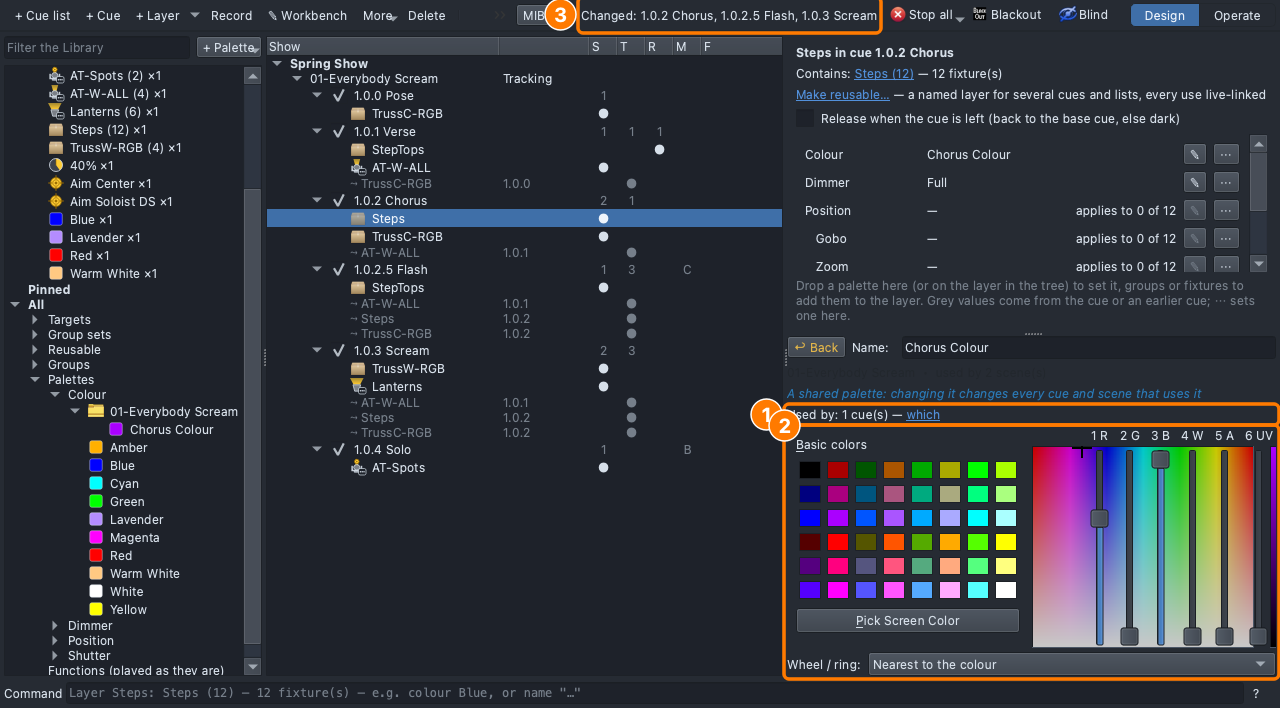
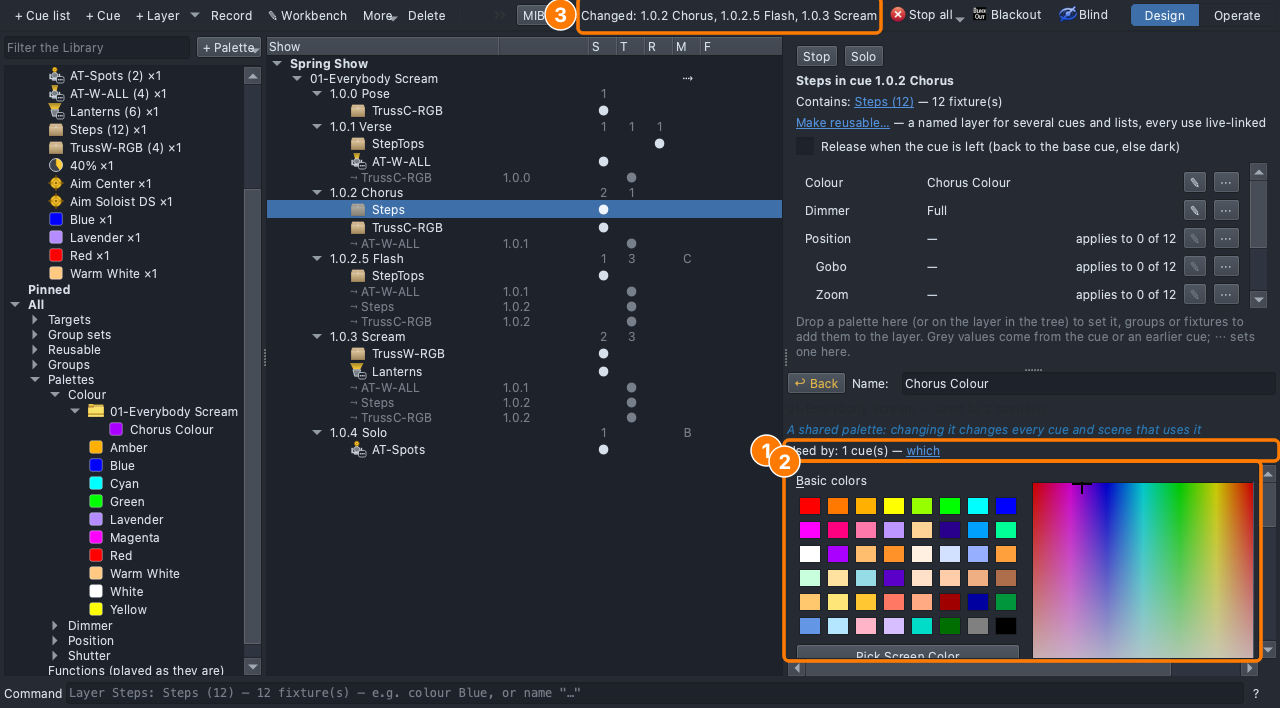
course: stage-colour picker, line crossing picture, Show Review warning marks, lab real-time note
Lesson 2.2 teaches the named stage colours, 2.5 how to read the crossing
plan (new line-cross picture), 3.9 and the 2.7 check answer a warning where
it shows, the Level 1 teacher guide notes Settings > Performance for lab
machines. The 2.5 picture test closes a leftover Look Editor first.

diff --git a/ui/test/courseshow/courseshow_test.cpp b/ui/test/courseshow/courseshow_test.cpp
@@ -4239,6 +4239,10 @@ static bool lessonTwoFiveByMouse(Doc *doc, ShowTreeView *view, const QString &sh
     settle(400);
     const QString fanPans = pans();
     qInfo().noquote() << "[2.5] fanned:" << fanPans;
+    // A Look Editor left open by the drop would hide the layer's own page.
+    if (QToolButton *back = view->findChild<QToolButton *>(QStringLiteral("lookBack")))
+        if (back->isVisible())
+            back->click();
     LESSON_STEP(clickCueRow(view, "Truss-Spots"), "click the layer");
     qInfo().noquote() << "[2.5] rows: Position" << rowText(view, KeyPosition) << "| Spread" << rowText(view, KeySpread)
                       << "| Grouping" << rowText(view, KeyGrouping) << "| Cross" << rowText(view, KeyCross)
@@ -4280,6 +4284,23 @@ static bool lessonTwoFiveByMouse(Doc *doc, ShowTreeView *view, const QString &sh
     settle(200);
     qInfo().noquote() << "[2.5] after -5: kind" << int(view->currentKind()) << "| Spread" << rowText(view, KeySpread)
                       << "| hint" << hintOf(view)->text();
+    if (!shots.isEmpty())
+    {
+        // The plan at Spread -5: each beam's line to its point, crossing.
+        QWidget *plan = view->findChild<QWidget *>(QStringLiteral("stLinePlan"));
+        QLabel *spread = stFind<QLabel>(view, QStringLiteral("stRow:%1").arg(KeySpread));
+        for (QWidget *w = spread; w != nullptr; w = w->parentWidget())
+            if (QScrollArea *area = qobject_cast<QScrollArea *>(w))
+            {
+                area->ensureWidgetVisible(plan != nullptr ? plan : spread, 0, 10);
+                break;
+            }
+        settle(100);
+        QList<HelpShots::Callout> marks;
+        if (plan != nullptr && plan->isVisible())
+            marks << mark(plan, 1, HelpShots::Above);
+        LESSON_STEP(ui(QStringLiteral("line-cross"), marks), "cross shot");
+    }
     LESSON_STEP(view->selectNode(button), "select the button");
     settle(50);
     {

diff --git a/docs/course/COURSE_PLAN.md b/docs/course/COURSE_PLAN.md
@@ -125,7 +125,7 @@ on lines, and busking hits for the unexpected.*
 | # | Lesson | Design idea | In the tool |
 |---|---|---|---|
 | 2.1 | **Tracking and Block** *(written)* | What stays on unless you change it; what should carry on and what shouldn't (one look per idea, 0.5; a sting is gone on the next beat, 0.6). A "hard start". | Read the chorus: grey ⤳ rows, the tree's **S / T / R / M** counts, **Tracked in**, *Next cue receives*. Director's notes: **Release** the verse's StepTops (dark in the chorus); a point cue 1.0.2.5 *Flash* (StepTops White, Full), **Cue-only**, so the Scream starts without it. The Solo (1.3) is the **Block** cue. Extension: the Pose as the **base cue** (StepTops Blue, 10%). |
-| 2.2 | **Palettes: change once, change everywhere** *(written)* | A designer's colours for a song (0.4, 0.5). The director says "less pink" an hour before the show. | **Used By** on Magenta; **Duplicate** it, name the copy for its job (*Chorus Colour*) in the Look Editor, **Move to Folder → New Folder…** *01-Everybody Scream*; drop it on the chorus's Steps and on the grey TrussC-RGB row; the note: **✎** → Basic colors violet, *Changed: 1.0.2, 1.0.2.5, 1.0.3*. Extension: **Group by Type** off. |
+| 2.2 | **Palettes: change once, change everywhere** *(written)* | A designer's colours for a song (0.4, 0.5). The director says "less pink" an hour before the show. | **Used By** on Magenta; **Duplicate** it, name the copy for its job (*Chorus Colour*) in the Look Editor, **Move to Folder → New Folder…** *01-Everybody Scream*; drop it on the chorus's Steps and on the grey TrussC-RGB row; the note: **✎** → Basic colors' violet (now stage colours) (hover for names), *Changed: 1.0.2, 1.0.2.5, 1.0.3*. Extension: **Group by Type** off. |
 | 2.3 | **Parts of a group** *(written)* | Highlight one row of singers; symmetry and breaking it (0.3, 0.4, 0.5): the bridge as a call and response. | 1.0.5 *Bridge* (Block): **Make Set…** *Truss Sides* (Trusses SR + SL), one layer Blue, Full; **Add Child Layer → Trusses SR** in Amber (a set's layer can't be split: Split is greyed); Steps Blue, 25% with a ⇧-dropped child **US** in White, Full. Extension: CS + DS dropped together, **Split Layer**, **More ▾ → Merge**. |
 | 2.4 | **Effects: sparkle and wave** *(written; planned as "sparkle, chase, matrix")* | Energy and rhythm (0.2, 0.4, 0.6). Eye candy vs. light on people. | 1.0.6 *Dance Break* (Block): Steps, StepTops, TrussW-RGB still; **+ Palette → Effect** in the song folder, the effect browser (*Sparkle · Dimmer*) → *Step Sparkle* on the Steps, **⋯ → Its own colour → White**; *Rainbow* → *Truss Wave* on TrussW-RGB (a wave of its blue). Extension: **Speed: Main Speed** (footer); a Color Chase on the cue, across the whole stage (§8, 17). |
 | 2.5 | **Moving lights and lines** *(written)* | Beams as scenery; fans and crosses on the button of a song (0.2, 0.3, 0.6). | 1.0.7 *Fan* (Block): Truss-Spots White, Full, **Riser Line** dropped on the row (the order strip, the plan view, Spread +5); 1.0.8 *Button* (tracks): the grey row's **Spread ⋯ → −5**, Red (the colour wheel and ring take their nearest slots), fade in 1 s. Extension: Spread 0, Grouping Pairs, the USTs on the line too (§8, 20). |

diff --git a/docs/course/level-2/lesson-02/teacher-guide.md b/docs/course/level-2/lesson-02/teacher-guide.md
@@ -100,7 +100,7 @@ On the projector:
 | Magenta changed in the Library | They opened Magenta, not the copy | "Undo. Which palette is on the chorus now? Open that one." |
 | Only the steps changed | Chorus Colour was dropped on the Steps only | "Where else is the chorus colour? The cyc: drop it on the grey TrussC-RGB row." |
 | The copy is still *Magenta (copy)* | Return not pressed in Name | "Type the name and press Return." |
-| They can't find Basic colors | The Look Editor is small | "Drag the line above it up to give it room." |
+| They can't find Basic colors (the swatch grid) | The Look Editor is small | "Drag the line above it up to give it room." |
 
 ## 4. Check for understanding (while circulating)
 
@@ -152,7 +152,7 @@ Every step of the handout is run by the course test (`ui/test/courseshow`,
 offscreen: the Library's right-click menus (Used by and its click,
 Duplicate, Move to Folder → New Folder…, Group by Type), the Look
 Editor's Name box and its Used by line, the drops and the top bar's text,
-the click on the Basic colors swatch, and what the rig sends (the steps
+the click on the violet swatch, and what the rig sends (the steps
 and the cyc magenta, then both violet, and the scream's cyc violet too).
 The at-home steps (Verse Colour into the existing folder) are checked the
 same way. The finish file is what the steps make, and the pictures are

diff --git a/docs/course/level-2/lesson-05/student.md b/docs/course/level-2/lesson-05/student.md
@@ -56,8 +56,14 @@ A snap or a quick sweep for the button? Why?
 
 7. Click **1.0.7 Fan**, **+ Cue**, type `Button`, **Return**.
 8. Click the grey **Truss-Spots** row; **Spread ⋯ → −5**: the beams cross.
-   In the plan view each beam runs from its light to its point, so you see
-   them cross. With Grouping set, each group has a colour of its own.
+   In the plan view (from above, downstage at the bottom) each beam is a
+   line from where its light hangs to its point on the line, so a cross
+   shows as lines that cross. Read the caption under it. With Grouping set,
+   lights that move together share a colour, and it counts the crossings
+   (*Groups swap sides: 24 beam crossings*). **Cross** does something only
+   with Spread below 0; at +5 or 0 the plan says so.
+
+   ![The plan at Spread −5: the beams cross](../../images/lesson-2-5/line-cross.png)
 9. Click **1.0.8 Button**; drag **Red** onto the **Truss-Spots** row.
 10. Type `1` in **Fade in**, **Return**.
 

diff --git a/docs/course/level-2/lesson-05/handout.md b/docs/course/level-2/lesson-05/handout.md
@@ -98,7 +98,13 @@ Switch roles after each part.
 8. Click the grey **Truss-Spots** row. On its **Spread** row, click **⋯ →
    −5**.
    - *You should see:* **Spread: −5**, the layer is the Button's own now,
-     and the top bar reads **Changed: 1.0.8 Button**. The beams cross.
+     and the top bar reads **Changed: 1.0.8 Button**. The beams cross. In
+     the plan view each beam is a line from its light to its point on the
+     line, so the cross is lines crossing; with Grouping set, lights that
+     move together share a colour and a caption counts the crossings.
+     **Cross** acts only below Spread 0, and the plan says when it doesn't.
+
+![The plan at Spread −5](../../images/lesson-2-5/line-cross.png)
 9. Click **1.0.8 Button** and drag **Red** onto the **Truss-Spots** row.
    - *You should see:* red beams. The spots have no colour mixing: their
      colour wheel and their colour ring each turn to the slot nearest

diff --git a/docs/course/level-2/lesson-02/student.md b/docs/course/level-2/lesson-02/student.md
@@ -62,8 +62,10 @@ Which cues change when Chorus Colour changes?
    ![Chorus Colour on the steps and the cyc](../../images/lesson-2-2/chorus-colour.png)
 
 9. Click the **Steps** row, then **✎** on its **Colour** row.
-10. Under **Basic colors**, click the violet (third row, second column).
-    The top bar: **Changed: 1.0.2 Chorus, 1.0.2.5 Flash, 1.0.3 Scream**.
+10. Under **Basic colors**, click the violet (third row, second column). The
+    swatches are the stage's colours, not a generic palette: hover a swatch for
+    its name (Flesh, Congo Blue, Bastard Amber, Blacklight for UV), and the
+    line under the picker names the colour you are on. The top bar: **Changed: 1.0.2 Chorus, 1.0.2.5 Flash, 1.0.3 Scream**.
 
     ![One change in the Look Editor](../../images/lesson-2-2/look-editor.png)
 

diff --git a/docs/course/level-3/lesson-09/teacher-guide.md b/docs/course/level-3/lesson-09/teacher-guide.md
@@ -55,7 +55,7 @@ Put the problem on the board with the clock: "7:20. The lanterns are dark in son
 
 ## 2. Teacher demo (10 min)
 
-1. Open the start file. Click **Review**: read two rows aloud, and hover for why it matters.
+1. Open the start file. Click **Review**: read two rows aloud, and hover for why it matters. Show that a warning answers where it shows: hover a **⚠ cyc** mark on a cue, right-click it (**I Meant It**, **Not Meant: Show Me the Layer**, **Open in Show Review**). A closed main curtain now stops its cyc light being flagged.
 2. CUE-02: **Fix ▸**, Block at section start, **Re-check**: five findings gone.
 3. VC-03: **Accept…**; show the note on the Accepted filter.
 4. Right-click a lantern → **Why is this on?** Read *Why it isn't on* top to bottom.

diff --git a/docs/course/level-3/lesson-09/handout.md b/docs/course/level-3/lesson-09/handout.md
@@ -45,7 +45,10 @@ Roles: **Driver** (mouse), **Navigator** (reads each step aloud and checks *You 
    show has no outputs, so one line there is expected. That list is about
    now, on this computer.
 3. Click **Review** in the footer.
-   - *You should see:* findings, worst first. Hover a row for why it
+   - *You should see:* findings, worst first. A warning also marks the cue
+     it is on (**⚠ cyc**): hover the mark for the detail, right-click it to
+     answer it there (**I Meant It**, **Not Meant: Show Me the Layer**,
+     **Open in Show Review**). Hover a row for why it
      matters. Look for **CUE-02**, and for four **CUE-01** under it.
 
    ![Show Review's findings](../../images/lesson-3-9/show-review.png)

diff --git a/docs/course/level-3/lesson-09/student.md b/docs/course/level-3/lesson-09/student.md
@@ -43,6 +43,11 @@ Roles: **Driver** (mouse), **Navigator** (reads each step aloud and checks *You 
      matters. Look for **CUE-02**, and for four **CUE-01** under it.
 
    ![Show Review's findings](../../images/lesson-3-9/show-review.png)
+
+   A warning also shows where it happens: a **⚠ cyc** mark on a cue in
+   the Show Tree. Hover it for the detail (which lights, how much, which
+   cues). Right-click it to answer there: **I Meant It**, **Not Meant:
+   Show Me the Layer**, or **Open in Show Review**.
 4. Select **CUE-02** and click **Fix ▸**. It takes you to the second song.
    Click the header **2 — Slow Dance** and tick **Block at section start**.
    Click **Re-check**.

diff --git a/docs/course/level-2/lesson-02/handout.md b/docs/course/level-2/lesson-02/handout.md
@@ -112,7 +112,9 @@ right-click on a Mac trackpad, click with two fingers.
      palette: changing it changes every cue and scene that uses it*, and
      *Used by: 1 cue(s)*.
 10. Under **Basic colors**, click the violet: the **third row, second
-    column**.
+    column**. The swatches are stage colours, named as crews name them (Flesh,
+    Congo Blue, Bastard Amber, Straw, Blacklight for UV): hover a swatch
+    for its name, and a line under the picker names the colour you are on.
     - *You should see:* the top bar reads **Changed: 1.0.2 Chorus, 1.0.2.5
       Flash, 1.0.3 Scream**, and the steps and the cyc turn violet
       together. Magenta itself hasn't changed.

diff --git a/docs/course/level-1/lesson-01/teacher-guide.md b/docs/course/level-1/lesson-01/teacher-guide.md
@@ -27,7 +27,10 @@ Students can:
 ## Before class
 
 - [ ] qlcconsole installed on the projector computer and every class laptop
-  ([Install](../../install.md)).
+  ([Install](../../install.md)). On Linux or Raspberry Pi lab machines,
+  check **Settings ▸ Performance**: the light timing is steadier when the
+  app may use real-time priority, which needs a real-time permission
+  (an rtprio limit) for the lab user.
 - [ ] `lesson-1-1-start.qlcc` and `lesson-1-1-finish.qlcc` from
   [`docs/course/shows/`](../../shows/) copied to each laptop (or a shared
   folder).

diff --git a/docs/course/level-2/lesson-07/student-check.md b/docs/course/level-2/lesson-07/student-check.md
@@ -38,6 +38,8 @@ app: true
    accident: a colour carried into the next song, two hits fighting over
    the same lights. Click **Review** in the footer. Fix each blocker and
    warning, or **Accept…** it with a note saying why it's on purpose.
+   A warning also marks its cue (**⚠ cyc**): hover for the detail,
+   right-click to answer it there.
    Your notes are part of the mark.
 7. **Run it live** while the song plays: one of you calls as SM, another
    is on the board, and you fire a hit at least once.
